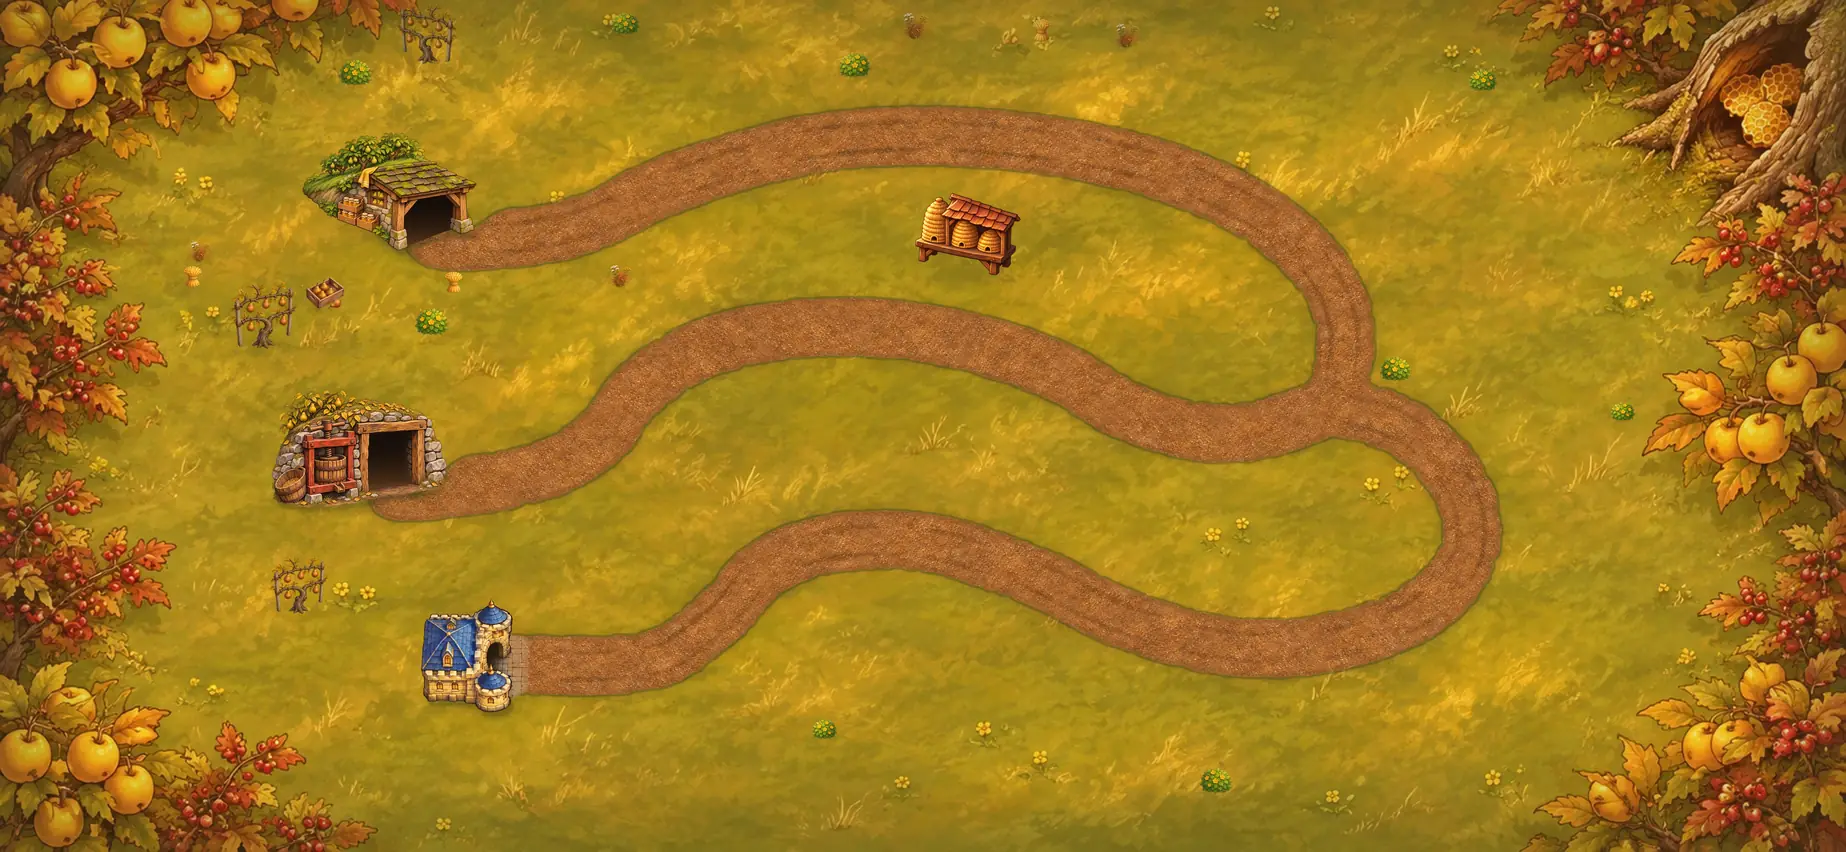
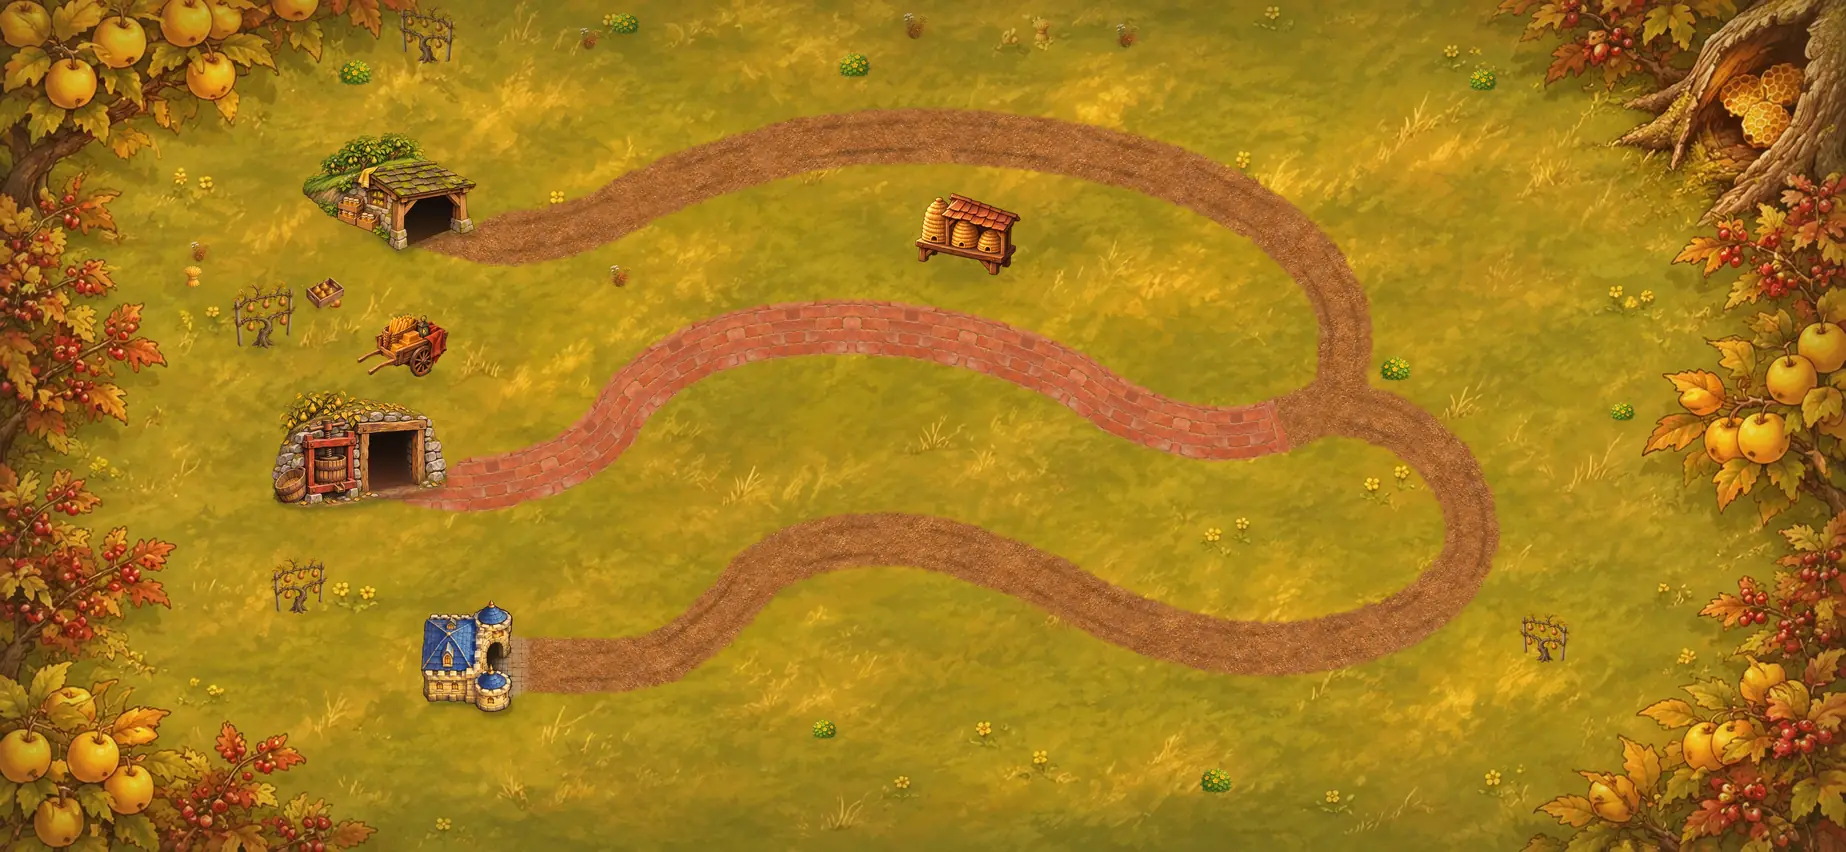
night(codex): round 11

diff --git a/tests/sim/campaignIslands2d.test.ts b/tests/sim/campaignIslands2d.test.ts
@@ -33,11 +33,19 @@ describe.each(ids)('%s campaign plot map', (id) => {
   const layout = parseLevel2D(json);
   const source = LEVELS[index];
 
-  it('resolves in campaign order with the source waves and valid plot purchases', () => {
+  it('resolves in campaign order with its authored formations and valid plot purchases', () => {
     const level = getLevelById(id)!;
     expect(level).toBe(LEVELS_2D[index + 1]);
     expect(level.layout2d).toEqual(layout);
-    expect(level.waves).toBe(source.waves);
+    if (id === 'i15' || id === 'i16') {
+      const expected = source.waves.map(wave => ({ ...wave, groups: wave.groups.map(group => ({ ...group })) }));
+      const group = id === 'i15' ? expected[3].groups[2] : expected[2].groups[2];
+      expect(group.enemyType).toBe(id === 'i15' ? 'flyer' : 'brute');
+      group.enemyType = id === 'i15' ? 'draftwing' : 'kilnback';
+      expect(level.waves).toEqual(expected);
+    } else {
+      expect(level.waves).toBe(source.waves);
+    }
     expect(level.name).toBe(source.name);
     expect(level.difficulty).toBe(source.difficulty);
     for (const order of [level.scriptedBuildOrder!, level.weakBuildOrder!]) {

diff --git a/src/data/levels2d/campaignIsland.ts b/src/data/levels2d/campaignIsland.ts
@@ -1,3 +1,4 @@
+import type { EnemyType } from '../../core/types.ts';
 import type { LevelDef, ScriptedBuildAction } from '../levels/types.ts';
 import { gridSizeFor, parseLevel2D, type Level2DJson } from './loader.ts';
 
@@ -6,8 +7,18 @@ interface PlotTuning {
   enemyHpScale: number;
   waveHpGrowth: number;
   hexRadius?: number;
+  waves?: LevelDef['waves'];
   /** Campaign build site "col,row" → index in the baked layout's plots. */
   sites: Readonly<Record<string, number>>;
+}
+
+/** Swap a formation on the painted island while preserving its lane and spawn timing. */
+export function replaceWaveEnemy(level: LevelDef, waveName: string, from: EnemyType, to: EnemyType): LevelDef['waves'] {
+  return level.waves.map(wave => {
+    if (wave.name !== waveName) return wave;
+    const groups = wave.groups.map(group => group.enemyType === from ? { ...group, enemyType: to } : group);
+    return { ...wave, groups };
+  });
 }
 
 /** Keep each campaign purchase, upgrade and targeting order on the corresponding painted plot. */

diff --git a/src/data/levels2d/i15.ts b/src/data/levels2d/i15.ts
@@ -1,8 +1,9 @@
 import { LEVEL_15 } from '../levels/level15.ts';
-import { campaignIsland } from './campaignIsland.ts';
+import { campaignIsland, replaceWaveEnemy } from './campaignIsland.ts';
 import layout from './i15.json';
 
 export const I15 = campaignIsland(LEVEL_15, layout, {
+  waves: replaceWaveEnemy(LEVEL_15, 'Veil of Mist', 'flyer', 'draftwing'),
   startingGold: 360,
   enemyHpScale: 4.1038,
   waveHpGrowth: 0.052,

diff --git a/src/data/levels2d/i16.ts b/src/data/levels2d/i16.ts
@@ -1,8 +1,9 @@
 import { LEVEL_16 } from '../levels/level16.ts';
-import { campaignIsland } from './campaignIsland.ts';
+import { campaignIsland, replaceWaveEnemy } from './campaignIsland.ts';
 import layout from './i16.json';
 
 export const I16 = campaignIsland(LEVEL_16, layout, {
+  waves: replaceWaveEnemy(LEVEL_16, 'Gatecrash', 'brute', 'kilnback'),
   startingGold: 100,
   enemyHpScale: 2.0336,
   waveHpGrowth: 0.066,

diff --git a/design/art-2d/chapter2/second-pass.md b/design/art-2d/chapter2/second-pass.md
@@ -94,3 +94,33 @@ The built-in ImageGen tool supplied the artwork in the [cloister kit](../v2/biom
 | `landmark-mooring-tackle.webp` | A weathered timber davit with salt-bleached edges and a hanging brass block. A thick frayed cable hangs loose from the wheel, an amber lantern hangs from a peg, and plum oilcloth lies over the foot rail. Use jade and violet shadows under the timber. |
 | `tex-salt-haul.webp` | A continuous overhead wash of trodden lavender-grey rock salt, mauve shale and scattered milky and pale rose salt chips. Lift the midtones for the mine road and retain the darker inclusions and ruts. |
 | `tex-freight-flags.webp` | Nine staggered courses of worn blue-green slate flags at an underground ferry landing. Pale salt crust collects in the shallow joints and crosses the edges of adjacent flags. Paint the tops silvery in the lamplight. |
+
+## Waxlight Orchard and Lastlight Head
+
+Waxlight Orchard’s last load of tapers stands between the fruit crates and the cider press. The press opens onto a curved brick yard with a transverse end course. The packing cellar and the common road carry the cart ruts. On Lastlight Head, there are three ways inland. The fort has basalt paving, the reef has shingle, and the western boat landing has a short flight of salt-worn steps. The keeper shields the orchard flame beside the slates leading to the dark beacon.
+
+The compositor uses the existing `brickSpur` projection for the orchard. The steps use the crosswise projection in `timberApproach` for the first 143 layout pixels from the boat shelter. The orchard brick strip pairs its middle half with its reflection so the mortar lines meet at each repeat. The stairs use the full painting once. Both figure and cart retain their generated alpha and are cropped to the painted bounds before packing.
+
+```sh
+/usr/bin/python3 -B tools/map-compose/rebake_all.py i23,i24 --jobs 1
+```
+
+### Source paintings
+
+The built-in ImageGen tool produced these four original paintings. The [figwood kit](../v2/biomes/figwood/) holds the orchard paintings. The [squall kit](../v2/biomes/squall/) holds the finale paintings.
+
+#### landmark-wax-cart.webp
+
+Original storybook map prop for a hand-painted gouache strategy game, isolated cutout on true transparency. A beekeeper's wooden two-wheeled handcart for delivering beeswax tapers. See from high three-quarter overhead, handles extend a little toward the lower left. On the cart bed a wicker pannier holding a bundle of long golden dipped taper candles with unmistakable dark wicks, several amber beeswax blocks and a single small teal-glass courier lantern, rust-red linen draped over one side. Give the warm wax a visible light, curved top surface. One sturdy spoked wheel clearly visible under cart. Painted in broad warm planes with restrained broken dark edges, autumn sun from upper left, compact strong shapes that read when shrunk to 80 pixels. Whole single cart, no person or horse, no floating items, text, scenery or ground tile. Tight contact shadow, transparent surround. Landscape format.
+
+#### tex-cider-court.webp
+
+Square continuous overhead gouache material swatch, completely flat and even light, for a pear cider press yard in an original painted storybook game. Rough old warm red-orange brick pavers in ten horizontal courses of staggered running bond, several bricks across per row. Softened edges scuffed with biscuit-grey lime dust, dark cinnamon clay showing through, fine moss tucked in a few cracks, subtle ochre pear leaf fragments pressed into the margins of a few stones. Hand-built orchard work yard under autumn sunlight, warm muted salmon, pale terracotta and umber. Slightly irregular, compressed and chipped. Keep mortar thin and pale, low variation in value so game enemies can walk across it. Full bleed surface to all edges without perspective or surrounding ground. No figures, labels, large objects, stalks or road markings.
+
+#### landmark-keeper.webp
+
+A tiny original storybook game scenery sprite of a single old lighthouse keeper, standing hunched into the wind in an ankle-length deep teal oilskin and soft sou'wester hood. High overhead three-quarter view, facing the viewer and toward the left. He cradles a sheltered single warm glowing beeswax taper inside a small open-sided brass storm lantern against his chest, crooked gloved hand shielding the flame. The flame and pale windburned face framed by the dark teal hood should read at 42 pixels tall. The coat hem blows slightly right, two stout boots firmly on the ground. Weathered painted gouache, strong calm silhouette, slate blue shadows, restrained amber light on sleeves and chin, cold daylight from upper left. Entire single human cutout isolated on true transparent background, tight contact shadow only. No scenery, circle, stepping stones, pedestal, halo, labels or extra figures.
+
+#### tex-tide-stairs.webp
+
+Continuous square top-down game material painting of an ancient sea landing at low tide. A steeply overhead orthographic view of nine broad horizontal courses of old wave-worn granite steps, built from long uneven pale blue-grey slabs laid side by side with slightly staggered end joints. Each course has a narrow darker shadow immediately along its lower edge, sand, salt and pale shell scraps worn into seams. Slippery deep sage-green tidal algae along some step edges, tops wet cool slate with thin tide lines and small warm sky reflections. Restrained gouache with deliberate brush strokes, interesting weathered chipped edges, readable at small scale. Use limited contrast, slabs look broad and flat, continuous pavement filling square edge to edge, no borders or diagonal perspective. No water running over steps, no vegetation tuft, railing, road markings, scenery, figure or text. Original illustrated island storybook aesthetic.

diff --git a/docs/overnight2/PROGRESS-codex.md b/docs/overnight2/PROGRESS-codex.md
@@ -264,3 +264,29 @@ At 844 × 390 in Turkish the camera fit covers 64.6% of the viewport on i21 and 
 ### Next round
 
 Waxlight Orchard (i23) and Lastlight Head (i24) remain. Start at the orchard’s cider-press lane. The beekeeper’s beeswax taper connects the orchard outro to the keeper in the finale, and the two entrances currently share the same red loam. The finale already has its dark beacon, stepping slabs and tern roost.
+
+## Round 11 — Waxlight Orchard, Lastlight Head and late chapter-one encounters
+
+### Done
+
+- **i23 Waxlight Orchard.** The beekeeper’s last load of dipped candles waits on a handcart between the pear crates and the cider press. Raiders from the press follow a curved brick lane into the rutted orchard road. In the opening-wave captures, 15 raiders are moving along the two routes. [Desktop combat](../../design/art-2d/chapter2/polish/i23-desktop.jpg) · [Phone combat](../../design/art-2d/chapter2/polish/i23-phone.jpg)
+- **i24 Lastlight Head.** The keeper shelters the orchard taper beside the steps to the dark beacon. Runners climb worn granite steps from the western boat shelter. The fort column takes the basalt road, and the reef raiders take the shingle. Called wave two early to inspect all three occupied approaches together. [Desktop combat](../../design/art-2d/chapter2/polish/i24-desktop.jpg) · [Phone combat](../../design/art-2d/chapter2/polish/i24-phone.jpg)
+- This finishes the second map pass on i17–i24. The two new recipes passed the saved-plot checks for all 43 plots. Both new landmarks sit wholly on the dressing masks. The desktop and phone opening and combat samples and the two native-resolution samples kept both landmarks clear of the HUD. The four map resolutions and seven pairs of gate fronts decoded and matched the production copies. Both layout JSON files match the round-start versions byte for byte. [Native details](../../design/art-2d/chapter2/polish/i23-i24-detail.jpg) · [ImageGen prompts, source kits and rebake command](../../design/art-2d/chapter2/second-pass.md#waxlight-orchard-and-lastlight-head)
+- **Late chapter one.** Moonwell Crossing (i15) sends six Slipstream Moths along its flight path in wave four, *Veil of Mist*. Emberglass Sanctum (i16) sends three Kilnback Tortoises down the second ring road in wave three, *Gatecrash*. Each is a single formation substitution on the painted map, using the existing art, abilities and EN/TR foe entries. The formation test checks the two source formations and the complete resulting wave lists.
+
+### Balance and decisions
+
+- Kept the original group sizes, lane assignments, spawn intervals, rewards for clearing waves, starting gold and HP tuning. With the realistic kit, Normal i15 goes from 11/22 to 9/22 and i16 from 11/22 to 10/22. Both stay at two stars. The weak build still loses at wave 19 of 22 and wave 23 of 24 respectively.
+- All 41 realistic-kit levels and all eight difficulty verdicts passed after the encounter changes. Easy and Normal clear 25/25. Hard clears 12/17 in chapter one and 3/8 in chapter two. Hard i09 ends at 12/22 and Hard i24 at 5/22. The 24,217-byte standalone L1–L16 simulation report matches the round-one baseline byte for byte.
+
+### Verification and handoff
+
+- Inspected enlarged combat screenshots at 1600 × 900 in English and 844 × 390 in Turkish. The production camera chose the 1.5× and 1× maps on those devices. A 1600 × 900 desktop at DPR 2 streamed both native 5538 × 2556 maps and all matching gate fronts. The phone fit covers 73.2% on i23 and 72.7% on i24. All ten HUD checks passed. No additional UI action is needed for these maps.
+- Used the world’s QA wave selector in the production game to start each new encounter. Both device captures contain six airborne moths and three tortoises on lane 1 in their respective waves. The moths show their paired trails as they close on the lead flyer. [Desktop and phone details](../../design/art-2d/chapter2/polish/i15-i16-encounters.jpg)
+- TypeScript, lint and all 23 Python dressing tests passed. Vitest passed 1,378 tests with 11 skipped using one worker and the original timeout. In the earlier two-worker run, the all-map backdrop placement test exceeded its five-second limit.
+- The combined gate command was terminated during its balance run after Vitest passed. Reran the full balance simulation and production build successfully. The final build has byte-identical copies of all 22 map and gate WebPs. Vite emitted its existing bundle warnings.
+- No new localization is needed for these encounters. Opus’s specialization build ring and codex presentation continue to use the round-two API and all sixteen branch portraits.
+
+### Next round
+
+All four assigned backlog items now have content and balance coverage. Start the next quality audit with specialization textures on a slow or interrupted connection. In `src/render2d/towerLayer.ts`, a failed branch load leaves its ID cached with a null value. Reproduce a transient asset failure during a purchase and check recovery and projectile release after the texture becomes available.
